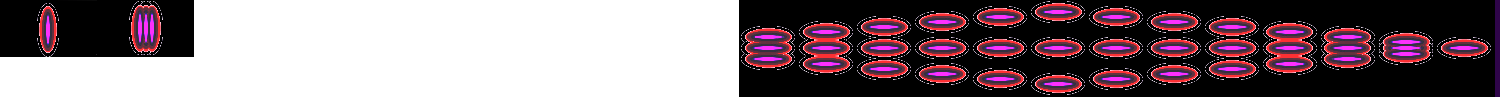
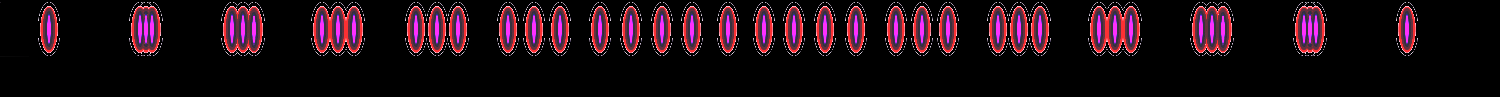
Updated sprite sheet code to use dictionaries, and finished Invincible sprite sheet

diff --git a/Player.py b/Player.py
@@ -7,15 +7,33 @@ class PlayerChar(Char):
     def __init__(self, maxSpeed=20, startPos=[0,0]):
         Char.__init__(self, [0,0], startPos)
         spriteSheet = SpriteSheet("Images/Characters/Ray/test.png")
-        self.imagesLeft = spriteSheet.load_strip(pygame.Rect(0,300,100,150), 8, (0,0,0))
-        self.imagesRight = spriteSheet.load_strip(pygame.Rect(0,150,100,150), 8, (0,0,0))
-        self.imagesUp = spriteSheet.load_strip(pygame.Rect(207,0,100,150), 1, (0,0,0))
-        self.imagesDown = spriteSheet.load_strip(pygame.Rect(0,300,100,150), 1, (0,0,0))
-        self.imagesLeftDown = spriteSheet.load_strip(pygame.Rect(100,300,100,150), 1, (0,0,0))
-        self.imagesJump = spriteSheet.load_strip(pygame.Rect(400,0,100,150), 1, (0,0,0))
-        self.imagesLeftidle = spriteSheet.load_strip(pygame.Rect(101,0,100,150),1,(0,0,0))
-        self.imagesRightidle = spriteSheet.load_strip(pygame.Rect(0,0,100,150), 1, (0,0,0))
-        self.images = self.imagesUp
+        self.normalImageList = {
+            "left":spriteSheet.load_strip(pygame.Rect(0,300,100,150), 8, (0,0,0)),
+            "right":spriteSheet.load_strip(pygame.Rect(0,150,100,150), 8, (0,0,0)),
+            "down":spriteSheet.load_strip(pygame.Rect(207,0,100,150), 1, (0,0,0)),
+            "up":spriteSheet.load_strip(pygame.Rect(0,300,100,150), 1, (0,0,0)),
+            "left down":spriteSheet.load_strip(pygame.Rect(100,300,100,150), 1, (0,0,0)),
+            "jump":spriteSheet.load_strip(pygame.Rect(400,0,100,150), 1, (0,0,0)),
+            "left idle":spriteSheet.load_strip(pygame.Rect(101,0,100,150),1,(0,0,0)),
+            "right idle":spriteSheet.load_strip(pygame.Rect(0,0,100,150), 1, (0,0,0)),
+        }
+        
+        spriteSheet = SpriteSheet("Images/Characters/Ray/iFrames.png")
+        self.invicibleImageList = {
+            "left":spriteSheet.load_strip(pygame.Rect(0,300,100,150), 8, (0,0,0)),
+            "right":spriteSheet.load_strip(pygame.Rect(0,150,100,150), 8, (0,0,0)),
+            "down":spriteSheet.load_strip(pygame.Rect(207,0,100,150), 1, (0,0,0)),
+            "up":spriteSheet.load_strip(pygame.Rect(0,300,100,150), 1, (0,0,0)),
+            "left down":spriteSheet.load_strip(pygame.Rect(100,300,100,150), 1, (0,0,0)),
+            "jump":spriteSheet.load_strip(pygame.Rect(400,0,100,150), 1, (0,0,0)),
+            "left idle":spriteSheet.load_strip(pygame.Rect(101,0,100,150),1,(0,0,0)),
+            "right idle":spriteSheet.load_strip(pygame.Rect(0,0,100,150), 1, (0,0,0)),
+        }
+        
+        self.imageList = self.normalImageList
+        self.imageKey = "right idle"
+        self.images = self.imageList[self.imageKey]
+        
         self.frame = 0
         self.frameMax = len(self.images) - 1
         self.image = self.images[self.frame]
@@ -50,51 +68,44 @@ class PlayerChar(Char):
             self.dirx = direction
             self.lastdir = direction
             self.speedx = -self.maxSpeed
-            self.images = self.imagesLeft
+            self.imageKey = "left"
             self.frame = 0
-            self.frameMax = len(self.images) - 1
         elif direction == "right":
             self.dirx = direction
             self.lastdir = direction
             self.speedx = self.maxSpeed
-            self.images = self.imagesRight
+            self.imageKey = "right"
             self.frame = 0
-            self.frameMax = len(self.images) - 1
         elif direction == "up":
             self.diry = direction
             self.lastdir = direction
             self.speedy = self.maxSpeed
-            self.images = self.imagesUp
+            self.imageKey = "up"
             self.frame = 0
-            self.frameMax = len(self.images) - 1
         elif direction == "down":
             self.diry = direction
             self.lastdir = direction
             self.speedy = self.maxSpeed
-            self.images = self.imagesDown
+            self.imageKey = "down"
             self.frame = 0
-            self.frameMax = len(self.images) - 1
         elif direction =="jump":
             self.diry = direction
             self.lastdir = direction
             if not self.jumping:
                 self.speedy = -50
                 self.move()
-                self.images = self.imagesJump
+                self.imageKey = "jump"
                 self.frame = 0
-                self.frameMax = len(self.images) - 1
                 # ~ print("--------Jump---------")
                 self.jumping = True
         elif direction == "sleft":
-            self.images = self.imagesLeftidle
+            self.imageKey = "left idle"
             self.frame=0
-            self.frameMax= len(self.images) - 1
             if self.dirx == "left":
                 self.speedx = 0
         elif direction == "sright":
-            self.images = self.imagesRightidle
+            self.imageKey = "right idle"
             self.frame=0
-            self.frameMax= len(self.images) - 1
             if self.dirx == "right":
                 self.speedx = 0
         elif direction == "sup":
@@ -140,10 +151,23 @@ class PlayerChar(Char):
             if self.iFrame > self.iFrameMax:
                 self.iFrame = 0
                 self.invincible = False
+                self.imageList = self.normalImageList
+               
         
         return self.wallCollide(size)
         
-        
+    def animate(self):
+        if self.animationTimer >= self.animationTimerMax:
+            print(self.imageKey)
+            self.images = self.imageList[self.imageKey]
+            self.frameMax= len(self.images) - 1
+            self.animationTimer = 0
+            if self.frame >= self.frameMax:
+                self.frame = 0
+            else:
+                self.frame += 1
+            print(self.frame, self.frameMax, len(self.images))
+            self.image = self.images[self.frame]
     
     def move(self):
         self.speedy += self.gravity
@@ -204,6 +228,7 @@ class PlayerChar(Char):
                         return True
         return False
             
+    
 
     def enemyCollide(self, other):
         if self != other:
@@ -216,5 +241,6 @@ class PlayerChar(Char):
                                     self.HP -= 1
                                     print("HP is now: " + str(self.HP))
                                     self.invincible = True
+                                    self.imageList = self.invicibleImageList
                                 return True
         return False
